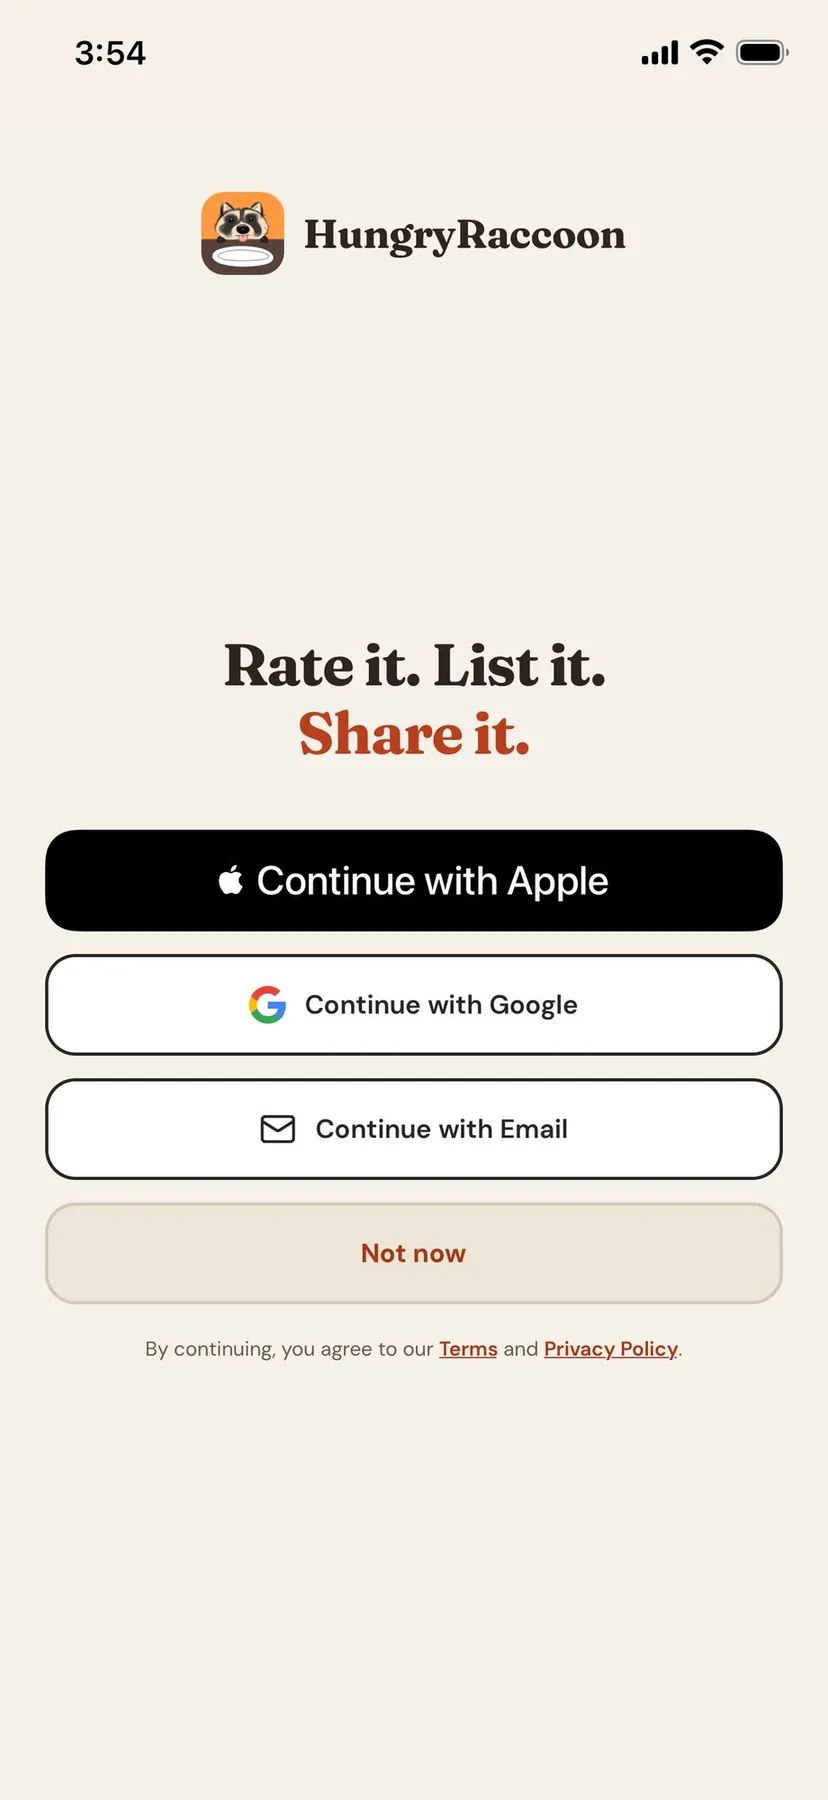
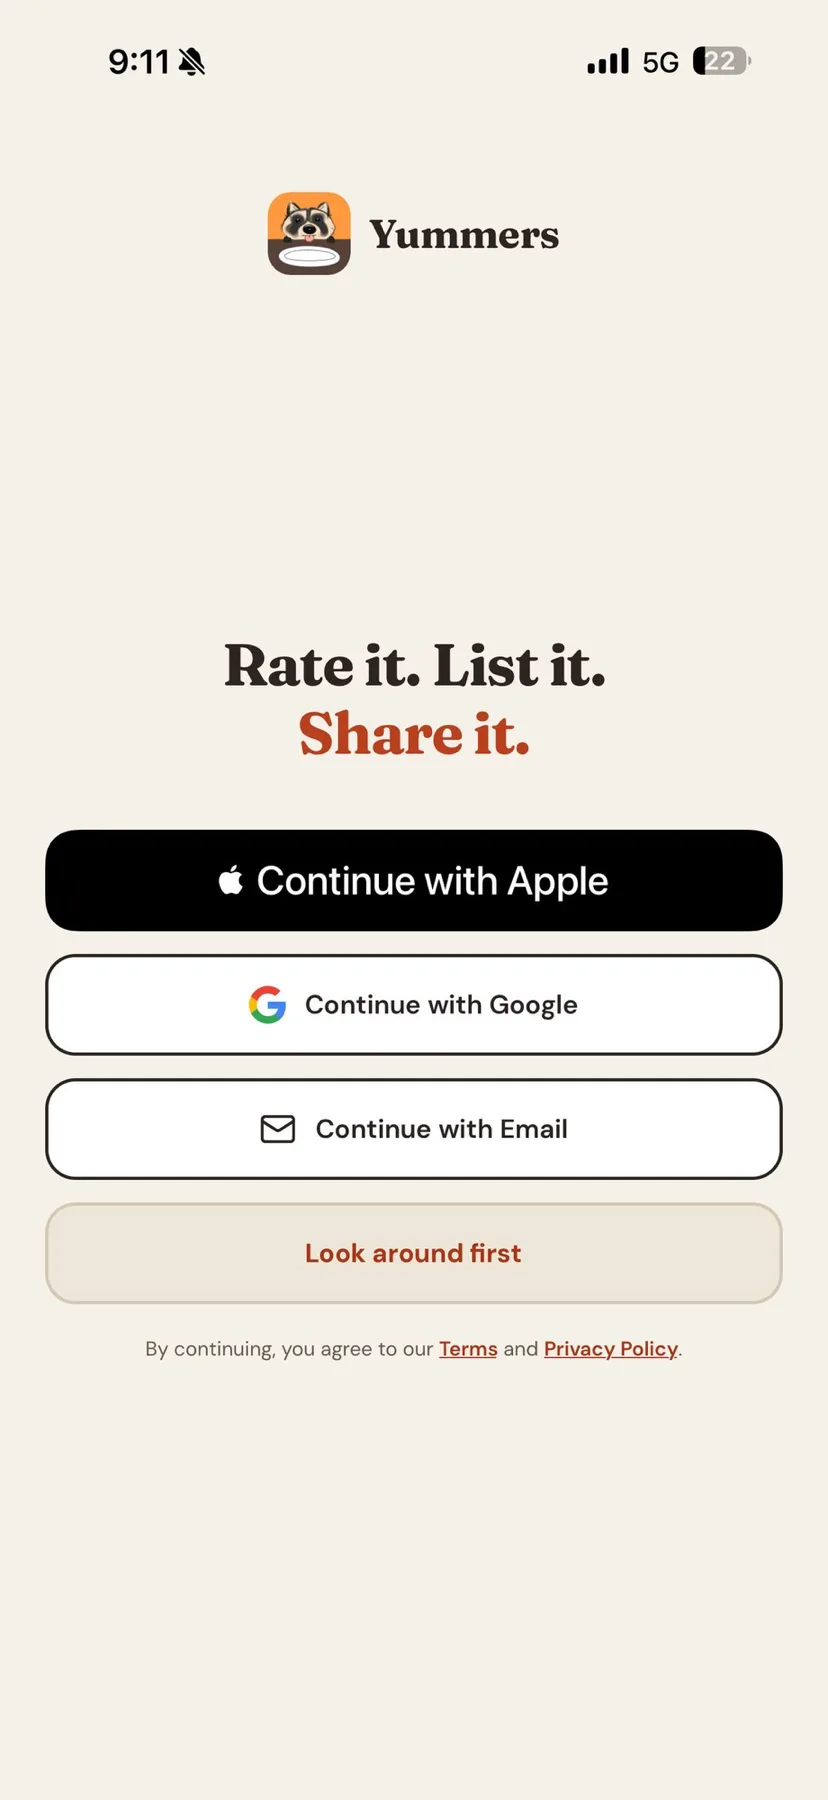
fix: the homepage phone shows the Yummers sign-in screen
The hero screenshot still showed the old HungryRaccoon name and the
old Not now button. It is now a real iPhone screenshot from build 18,
and the alt text names Look around first.

diff --git a/i18n.js b/i18n.js
@@ -19,7 +19,7 @@
         heroPeek: "ចូលមើលបន្តិចមក",
         exploreAlt: "ផែនទីភ្នំពេញ ដែលបង្ហាញកន្លែងញ៉ាំជាក្រុមៗ និងបញ្ជីកន្លែងដែលនៅលើផែនទី",
         foodCaption: "របស់ឆ្ងាញ់ៗ នៅមិនឆ្ងាយទេ",
-        signinAlt: "អេក្រង់ចូលគណនី Yummers ៖ Rate it. List it. Share it. ជាមួយប៊ូតុង Continue with Apple, Continue with Google, Continue with Email និង Not now",
+        signinAlt: "អេក្រង់ចូលគណនី Yummers ៖ Rate it. List it. Share it. ជាមួយប៊ូតុង Continue with Apple, Continue with Google, Continue with Email និង Look around first",
         previewCaption: "មើលកម្មវិធីសាកល្បង · តុលា · ២០២៦",
         tickerLabel: "វាយតម្លៃទីតាំង, បង្កើតបញ្ជី, ចែករំលែកជាមួយមិត្ត, ភ្នំពេញក្នុងដៃអ្នក",
         tickerRate: "វាយតម្លៃទីតាំង",
@@ -81,7 +81,7 @@
         heroPeek: "Jetez un œil",
         exploreAlt: "Carte de Phnom Penh avec des groupes d’adresses, et la liste des adresses visibles en dessous",
         foodCaption: "Un bon plat vous attend au coin de la rue.",
-        signinAlt: "Écran de connexion de Yummers : Rate it. List it. Share it., avec Continue with Apple, Continue with Google, Continue with Email et Not now",
+        signinAlt: "Écran de connexion de Yummers : Rate it. List it. Share it., avec Continue with Apple, Continue with Google, Continue with Email et Look around first",
         previewCaption: "Aperçu de l’app · octobre 2026",
         tickerLabel: "Notez ce que vous avez mangé, Faites des listes, Partagez avec vos amis, Phnom Penh dans l’assiette",
         tickerRate: "Notez ce que vous avez mangé",

diff --git a/index.html b/index.html
@@ -52,7 +52,7 @@
                 </figure>
                 <figure class="device-figure">
                     <div class="device preview-device"><img class="app-shot" src="assets/app-signin.webp"
-                            data-i18n-alt="signinAlt" alt="Yummers sign-in screen: Rate it. List it. Share it., with Continue with Apple, Continue with Google, Continue with Email and Not now"
+                            data-i18n-alt="signinAlt" alt="Yummers sign-in screen: Rate it. List it. Share it., with Continue with Apple, Continue with Google, Continue with Email and Look around first"
                             width="828" height="1800"><span class="home-indicator" aria-hidden="true"></span></div>
                     <figcaption data-i18n="previewCaption">App preview · October 2026</figcaption>
                 </figure>
